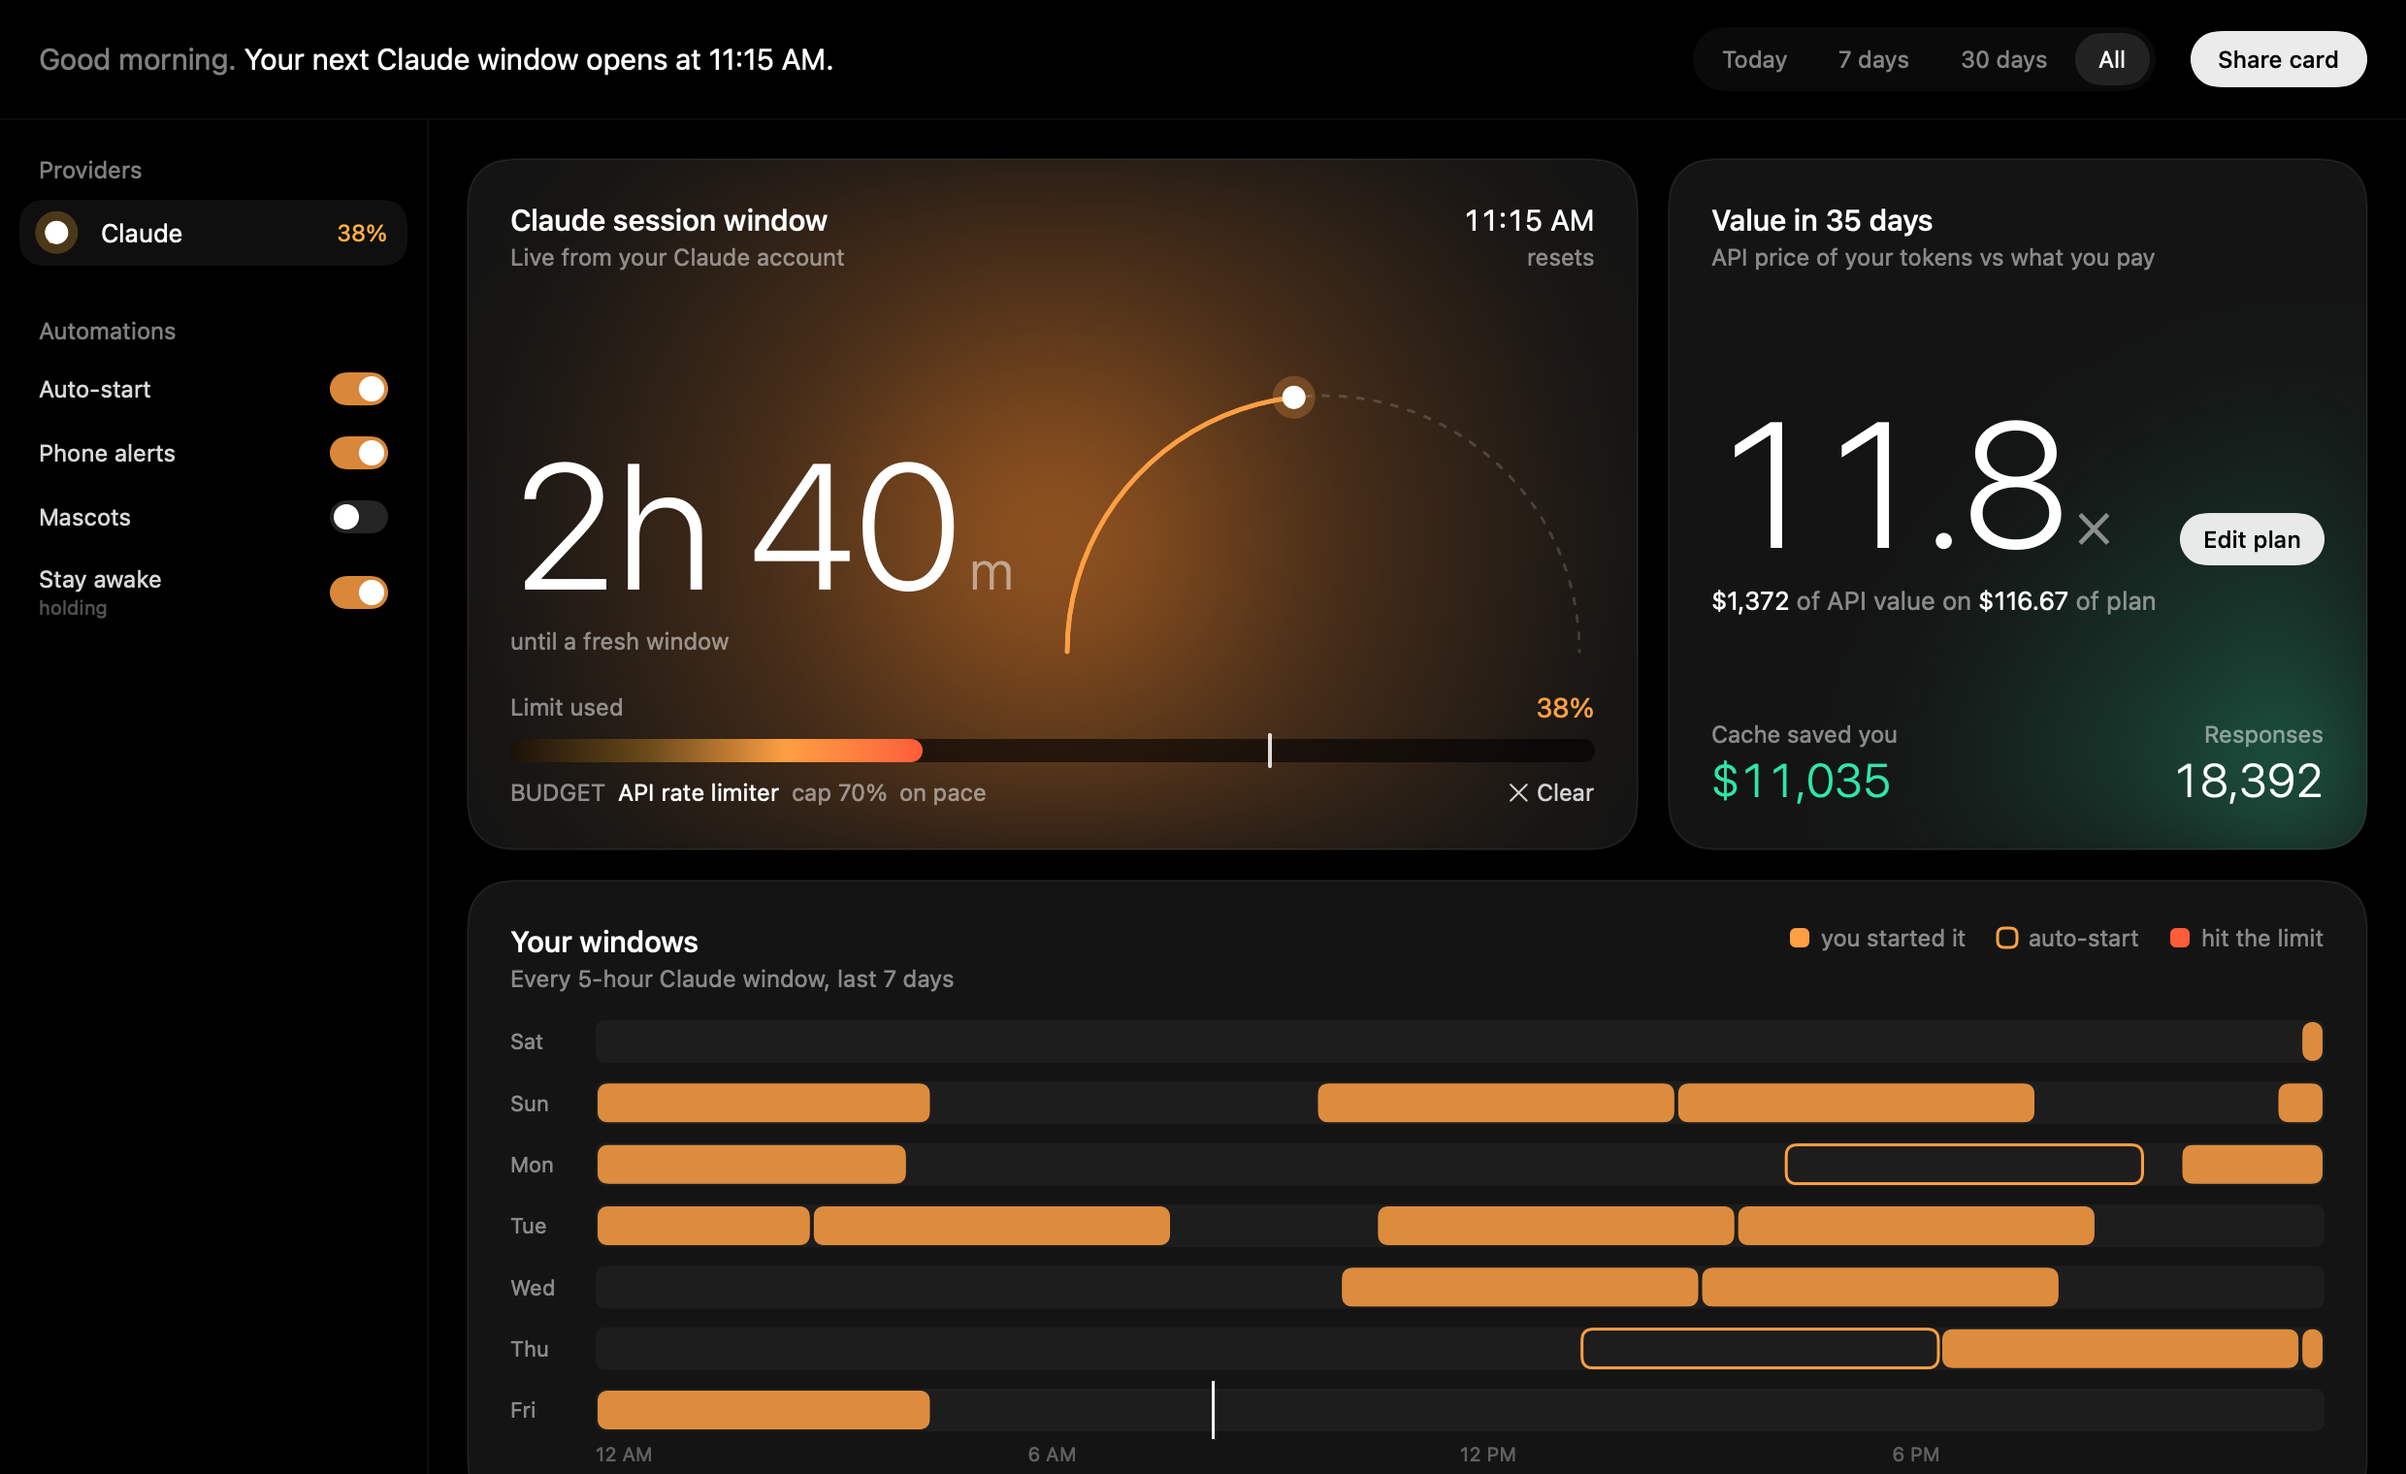
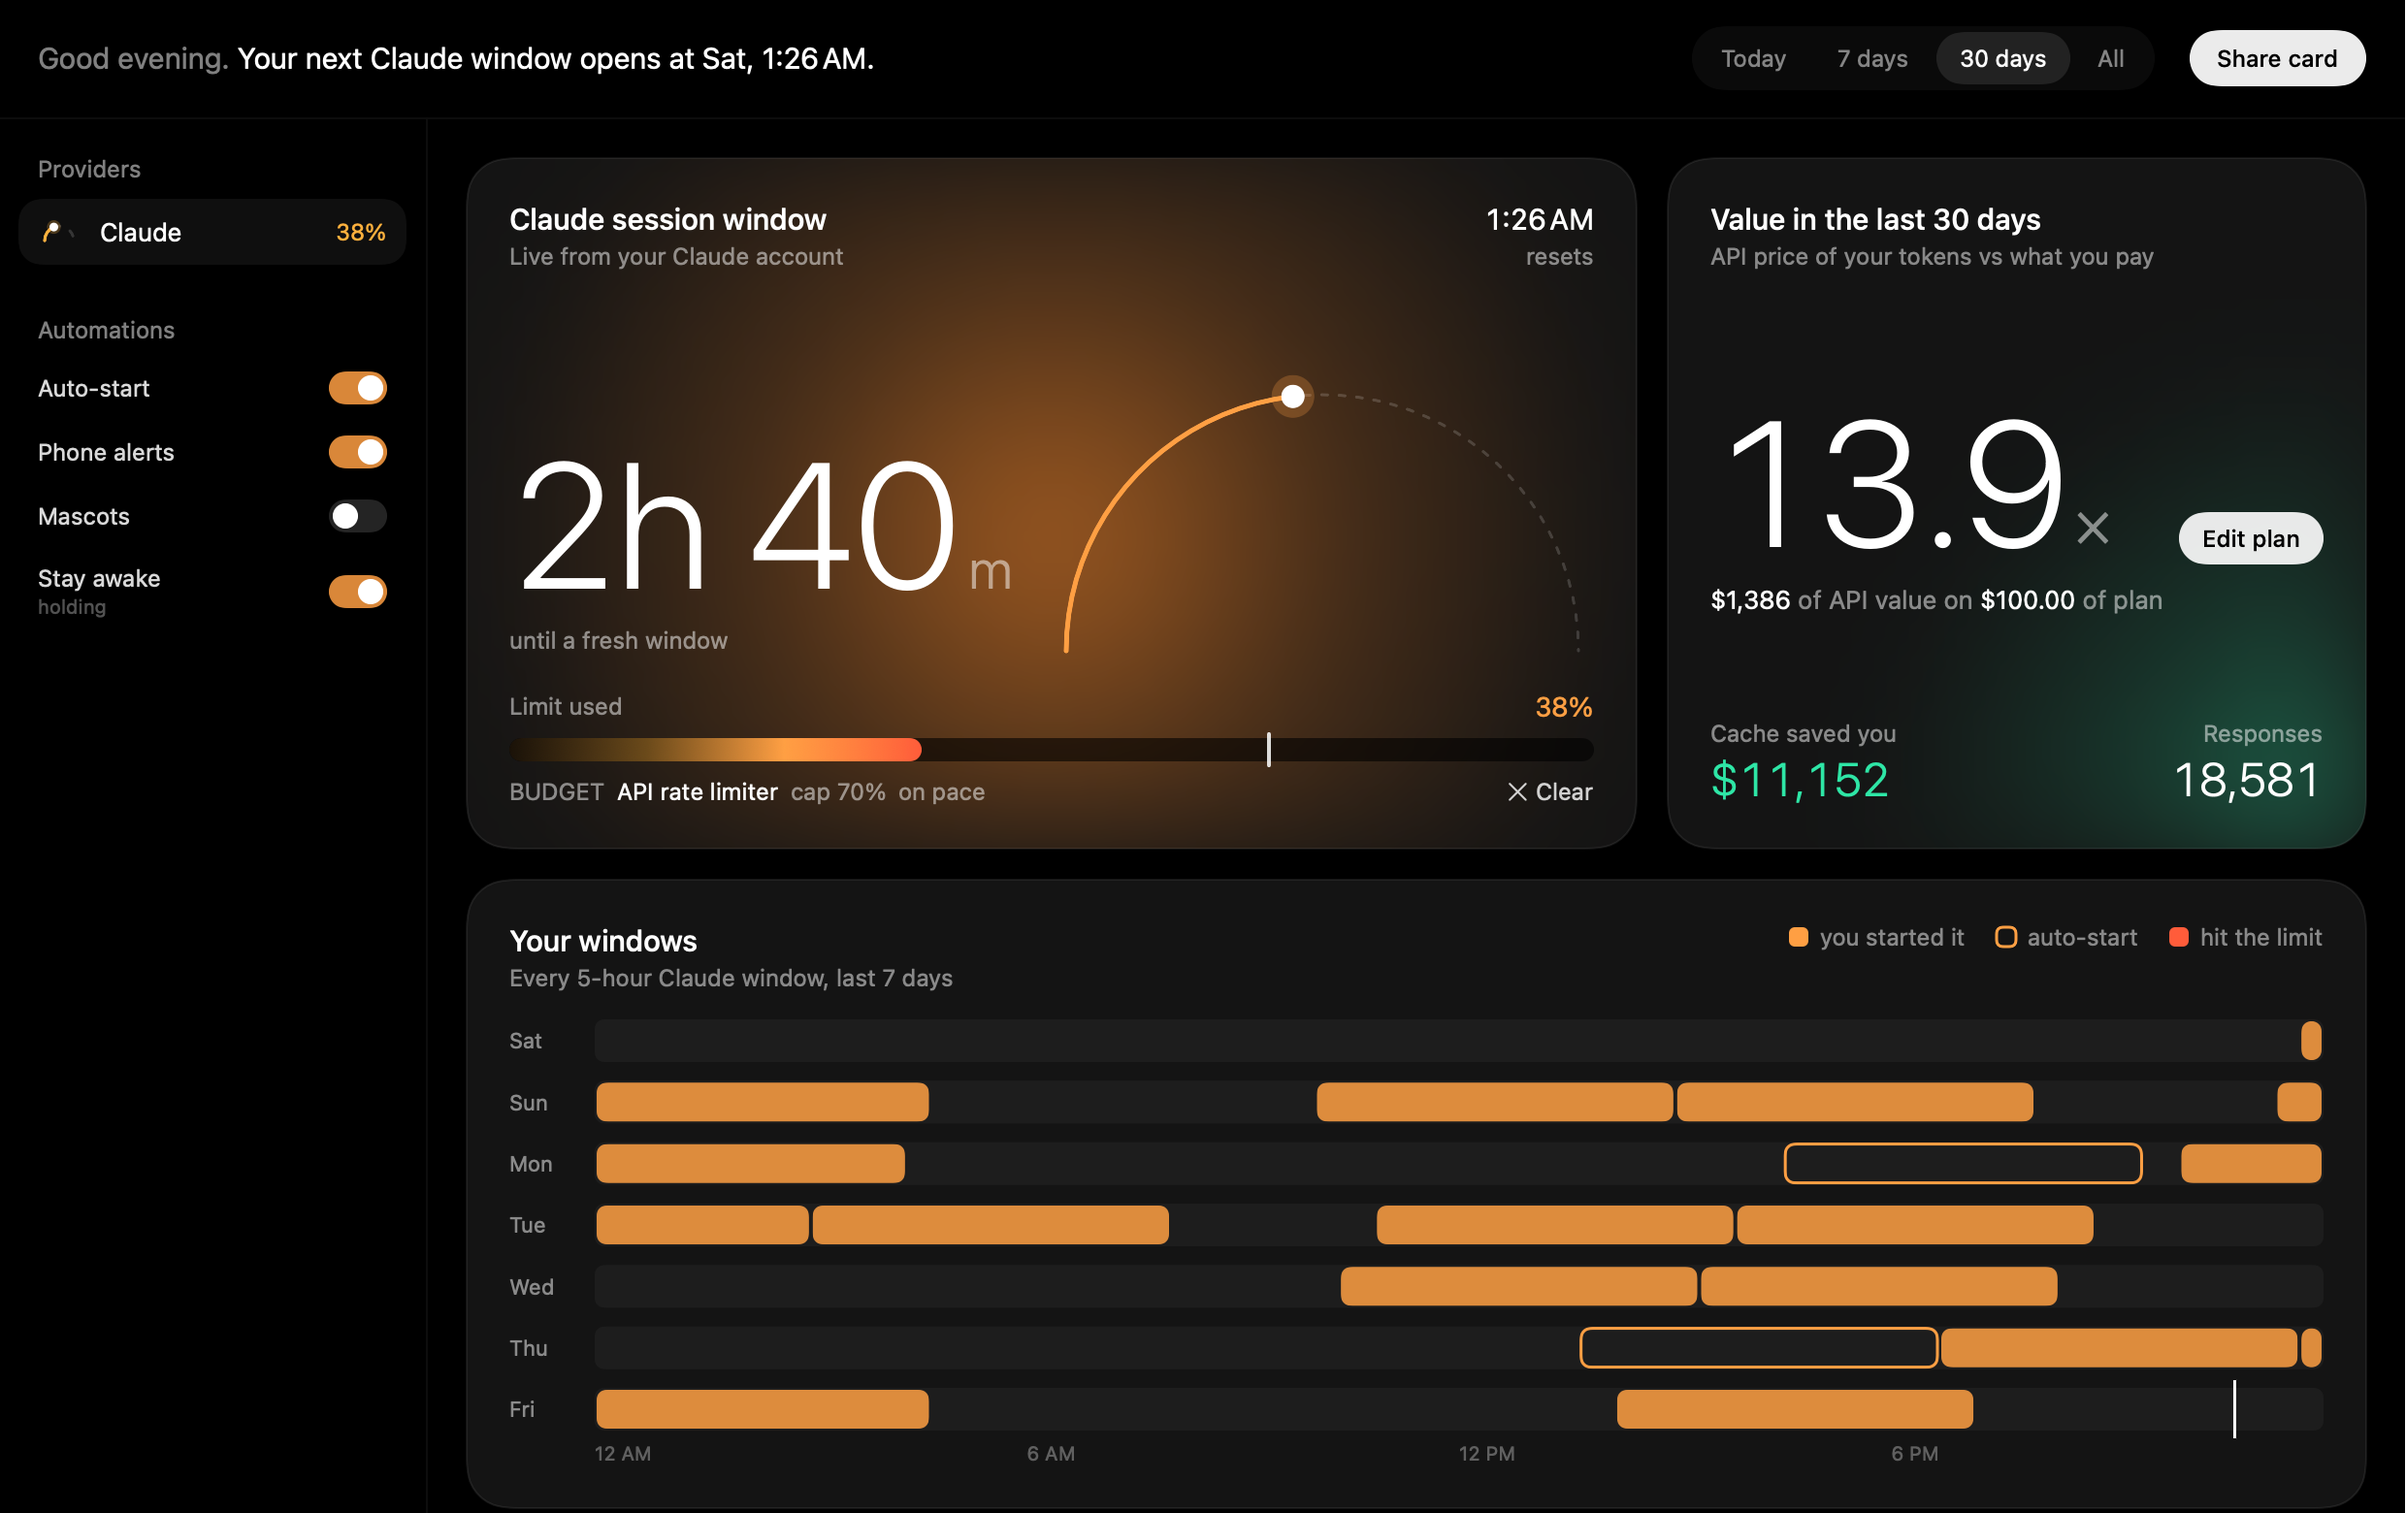
README and website: what's new since 0.3.8

diff --git a/docs/index.html b/docs/index.html
@@ -165,6 +165,9 @@
       <div class="card"><div class="k">📱</div><h3>Phone alerts</h3><p>A ping at the reset through the free ntfy app, queued ahead of time so it arrives even with your Mac asleep.</p></div>
       <div class="card"><div class="k">⚡</div><h3>Auto-start</h3><p>Optional: when a window runs out, Reset sends one short message so the next one starts right away. Or press Start now in a widget.</p></div>
       <div class="card"><div class="k">📊</div><h3>What it's worth</h3><p>A dashboard with the API-price value of your usage against your plan, cache savings, every window this week, and cost per project.</p></div>
+      <div class="card"><div class="k">👥</div><h3>Work and personal</h3><p>A Team account and a personal Pro plan each get their own window, costs and plan price. Switch between them, or see both together.</p></div>
+      <div class="card"><div class="k">📅</div><h3>Weekly limit, early</h3><p>On Pro and Max, Reset warns from 80% of the weekly limit, so you can pace the week instead of finding out when it's used up.</p></div>
+      <div class="card"><div class="k">🔔</div><h3>Alerts you can act on</h3><p>Notifications open the dashboard, with Start now and Sign in buttons right on them. Times follow your 12 or 24-hour clock.</p></div>
       <div class="card"><div class="k">🔒</div><h3>Private by design</h3><p>Reads local logs only. No accounts, no analytics, no servers. Anything that leaves your Mac is opt-in.</p></div>
     </div>
   </div>
@@ -196,6 +199,8 @@
           <li>API-price value of your tokens against what you pay</li>
           <li>Every 5-hour window of the week: yours, auto-started, and the ones that hit the limit</li>
           <li>Token mix, when you build, cost per session and per project</li>
+          <li>Work and personal accounts apart, each against its own plan price</li>
+          <li>Right-click a session to copy the command that resumes it</li>
           <li>A share card of your month for X</li>
         </ul>
       </div>
@@ -208,14 +213,15 @@
   <div class="wrap">
     <div class="eyebrow">For Claude Code</div>
     <h2>Let Claude pace itself.</h2>
-    <p class="lead">An MCP server tells Claude how much window is left, and lets it set a budget for a task: wrap up at 80% of the cap, switch to a smaller model past it. A status line keeps the numbers in your terminal.</p>
+    <p class="lead">An MCP server tells Claude how much window is left, including the weekly limit, and lets it set a budget for a task: wrap up at 80% of the cap, switch to a smaller model past it. A status line keeps the numbers in your terminal, and says so when Reset isn't running instead of showing old ones. Set both up with one click in Settings.</p>
     <div class="code" style="margin-top:36px">
       <pre><span class="c"># Your terminal's status line</span>
 ◷ Claude 42% left · 2h 46m to 11:15 PM · <span class="o">budget 70%</span> · $22 today
 
 <span class="c"># Claude, mid-task, via the MCP server</span>
 get_claude_usage → <span class="g">"Within budget for “Refactor auth”: 30% of the window used, cap 70%."</span></pre>
-      <pre><span class="c"># One command to connect it</span>
+      <pre><span class="c"># One click: Settings → Advanced → Add for me</span>
+<span class="c"># Or by hand:</span>
 claude mcp add --scope user reset -- \
   /Applications/Reset.app/Contents/MacOS/reset-mcp
 

diff --git a/README.md b/README.md
@@ -19,12 +19,15 @@ Everything it reads stays on your Mac.
 - **Your window at a glance.** A colored pill in the menu bar: orange "2:46 · 42%" as usual, red when the window is nearly empty or your pace runs out before the reset ("38% · out 10:07": 38% left, empty at 10:07 at this pace), green "ready" when a fresh window is waiting. Exact when live usage is on; estimated from your activity when it isn't, and labelled as such.
 - **Phone alerts while your Mac sleeps.** Reset queues each reset alert on an [ntfy](https://ntfy.sh) server ahead of time, so it arrives on your phone even with the lid closed.
 - **Limit forecast.** At your current pace, will you hit the limit before the reset? Reset warns you once per window, on your Mac and your phone.
+- **Weekly limit, early.** On Pro and Max plans, Reset warns from 80% of the weekly limit (in the menu, the status line and one notification a week), so a used-up week doesn't come as a surprise.
+- **Work and personal accounts.** Use a Team account and a personal Pro plan? Each gets its own entry, window and countdown, and the dashboard splits costs, sessions and projects by account, each against its own plan price.
+- **Notifications you can act on.** Clicking one opens the dashboard; reset alerts have a Start now button and sign-in problems a Sign in button. Times follow your 12 or 24-hour clock.
 - **Auto-start.** Optional. When a window runs out, Reset sends a one-word prompt so the next window starts right away instead of when you wake up.
-- **Dashboard.** API-price value of your usage against your plan, cache savings, every 5-hour window of the week, token mix, when you build, cost per session and per project, and what used each session (main thread, subagents, each MCP server).
+- **Dashboard.** API-price value of your usage against your plan, cache savings, every 5-hour window of the week, token mix, when you build, cost per session and per project, and what used each session (main thread, subagents, each MCP server). Right-click a session to copy the command that resumes it. ⌘1–4 switch the range, ⌘R rescans.
 - **8 desktop widgets**, including **Fuse**: your window as a burning fuse, with where today's pace runs out and how much to slow down to make the reset. The others: countdown, gauge, arrival, today's spend, month calendar, week, and a Game Boy. When a fresh window is waiting, the countdown and Fuse widgets show a **Start now** button that starts it right from your desktop. Plus **8 looks** for the menu card.
 - **Mascots.** Animated desktop pets whose mood and health bar follow your usage: fresh, focused, tired, asleep at the limit, waking at the reset.
 - **Share card.** A 1200 × 675 image of your month for X.
-- **Claude Code integration.** A status line for your terminal and an MCP server, so Claude can check how much window is left and pace itself, including a per-task budget that tells it when to wrap up or switch to a smaller model.
+- **Claude Code integration.** A status line for your terminal and an MCP server, so Claude can check how much window is left (and the weekly limit) and pace itself, including a per-task budget that tells it when to wrap up or switch to a smaller model. One click in Settings sets both up, and both say so when Reset isn't running rather than showing old numbers.
 - **Stay awake.** Keeps the Mac from idle-sleeping (when plugged in, or always) so auto-start and alerts run on time, without a separate app. The display still sleeps.
 - **One-minute setup.** A first-run guide picks your tools, signs Claude Code in, sets up phone alerts with a QR code, and takes your plan price.
 
